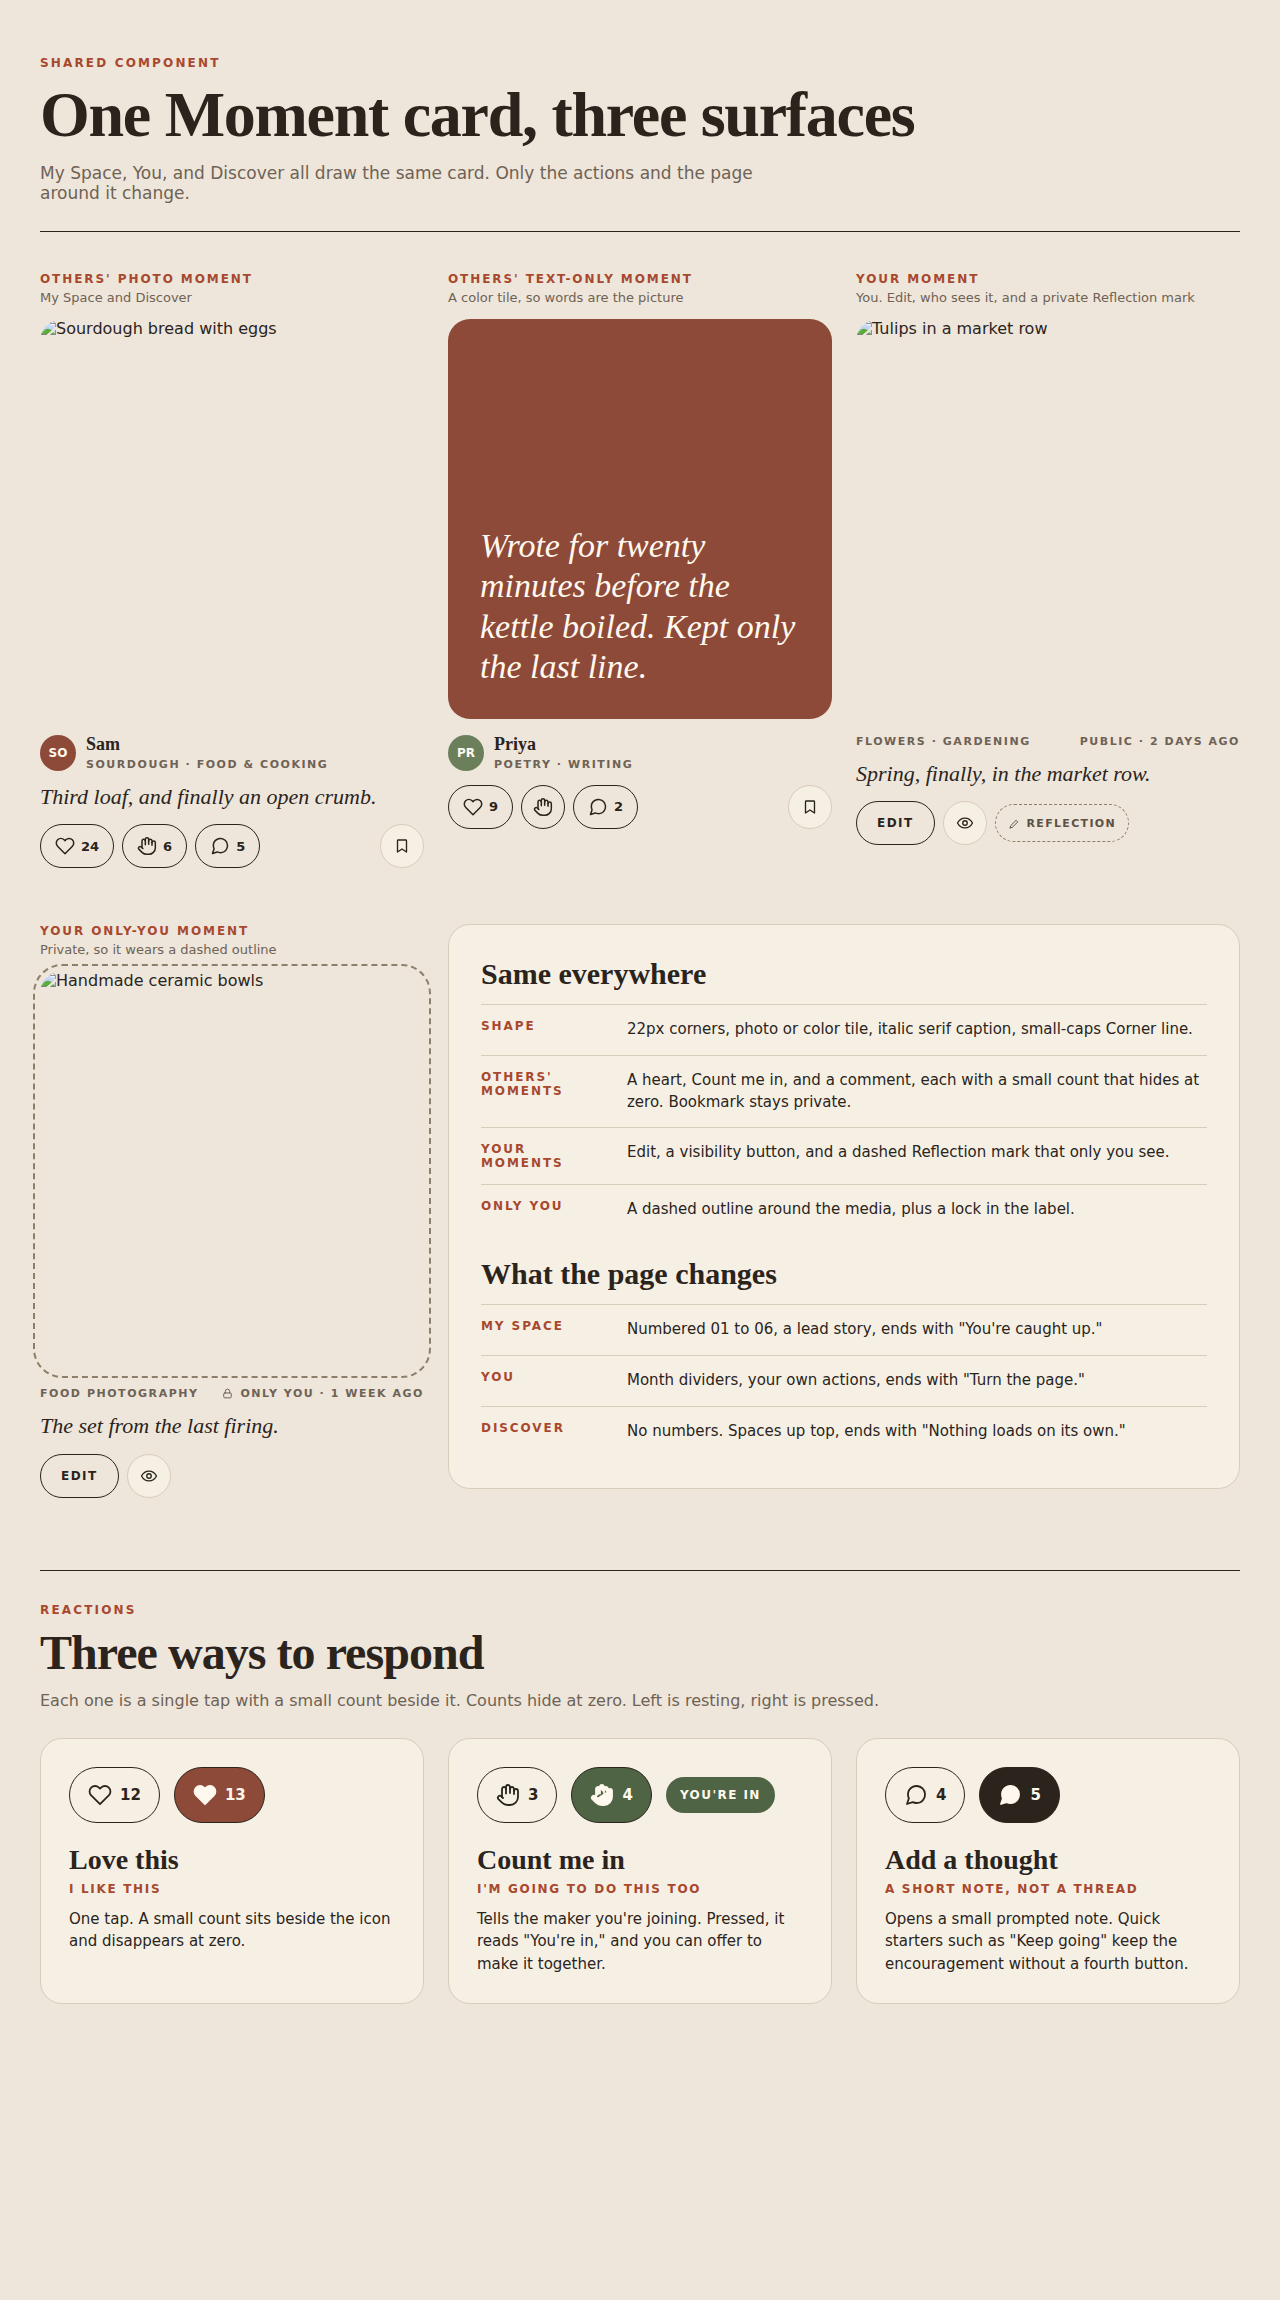
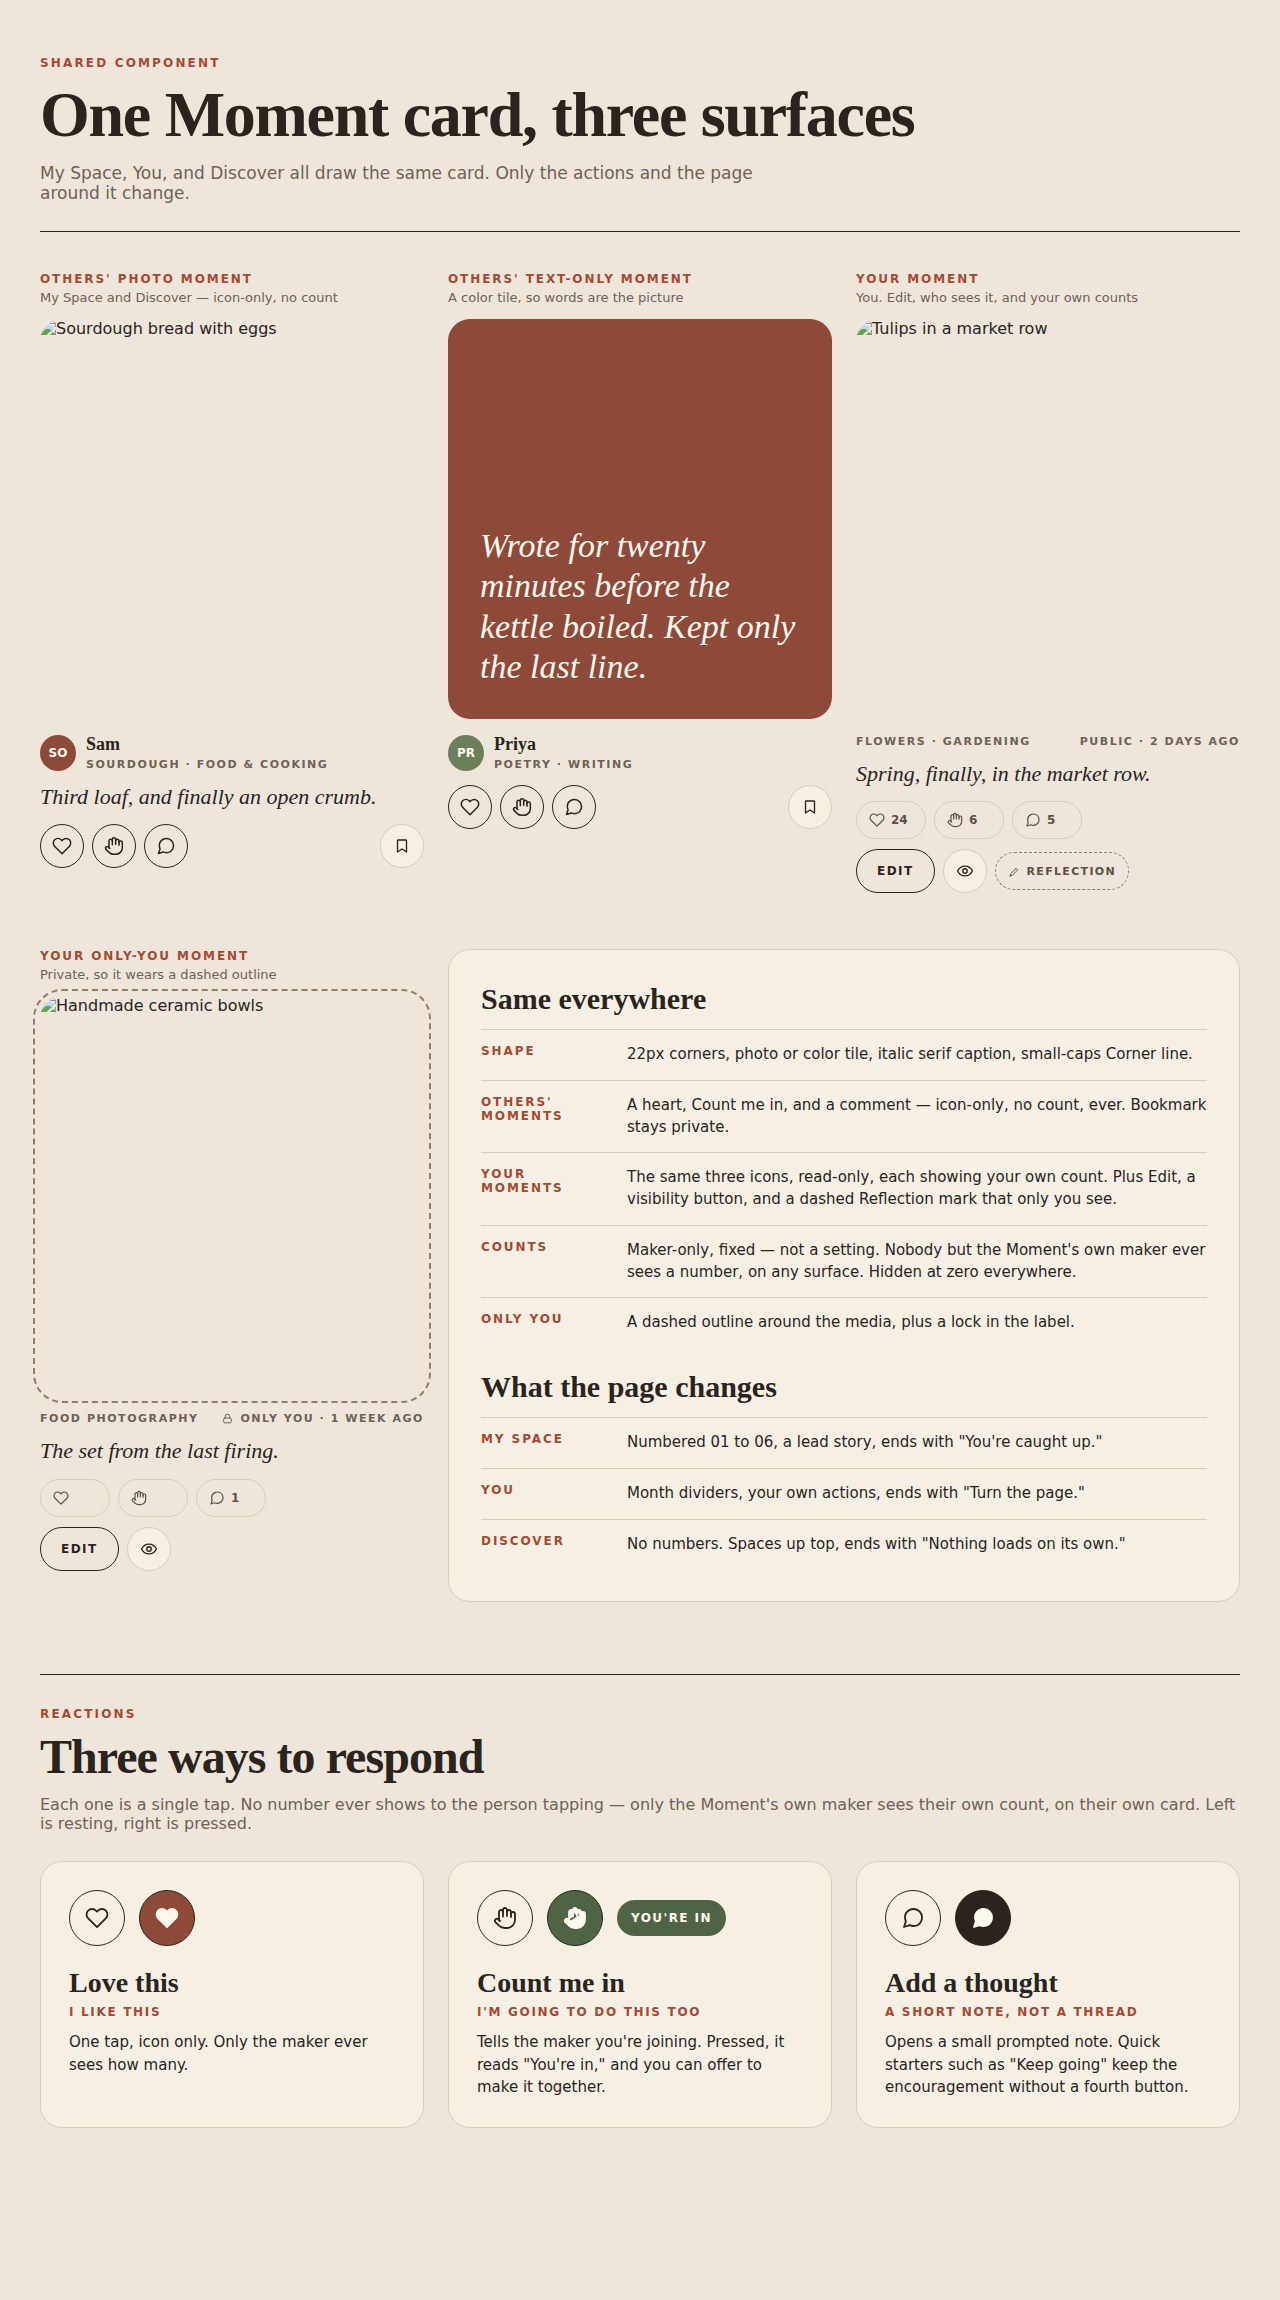
Counts become maker-only, not a public "everyone" mode
Product decision: on someone else's Moment, the three reaction icons
stay icon-only forever, no number anywhere. On your own Moment, those
same icons go read-only and each shows your own count, hidden at zero.
Updates board 6 (the live design canvas) and this repo's own copy of it,
plus spec sections 2.1.4, 2.3, 4.1-4.4, 5, and 6:

- Drops the REACTION_COUNTS "everyone|maker|off" constant entirely -
  maker-only is now the only behavior, not a setting.
- Drops the post_engagement migration/RPC - a maker-only count needs no
  new server object. reactions' own RLS already caps a non-owner's count
  query at their own single row; thoughts' RLS is wider, so the client
  gates that one's display explicitly the same way.
- "Your Moment" card gains the three read-only count pills alongside the
  existing Edit/visibility/Reflection row - previously that row had no
  reaction icons at all.
- Updated tests in section 5 to match (no more post_engagement RLS
  cases; new cases for the plain per-post count queries).

diff --git a/docs/moment-card-and-reactions-spec.md b/docs/moment-card-and-reactions-spec.md
@@ -43,8 +43,8 @@ Build a single `MomentCard` and replace every separate card implementation with 
    - Your Moments: small-caps Corner on the left, `{PUBLIC | Circle name | ONLY YOU} . {time}` on the right.
 3. **Caption**, Fraunces italic, 22px on cards, 26px on wide cards, 40 to 44px on a lead card. No ellipsis truncation of meaningful text (clamp to 3 lines on small cards with a real "Open" affordance).
 4. **Action row.**
-   - Others' Moments: `Love this`, `Count me in`, `Add a thought` (icon buttons with counts, section 4), and a private Bookmark icon pushed to the right.
-   - Your Moments: `Edit`, a visibility button (eye icon, opens the existing visibility control), and a dashed **Reflection** mark **only when a Reflection exists**. The Reflection mark and the Reflection text are visible to the owner only and never rendered for anyone else.
+   - Others' Moments: `Love this`, `Count me in`, `Add a thought` — **icon-only, no counts** — and a private Bookmark icon pushed to the right.
+   - Your Moments: the same three icons, **read-only** (you don't react to your own Moment) and **each showing its own count**, hidden at zero (section 4), plus `Edit`, a visibility button (eye icon, opens the existing visibility control), and a dashed **Reflection** mark **only when a Reflection exists**. The Reflection mark and the Reflection text are visible to the owner only and never rendered for anyone else.
 
 ### 2.2 Props
 
@@ -63,7 +63,7 @@ type MomentCardProps = {
 ### 2.3 States and behavior
 
 - Hover, focus-visible and pressed states on every button. Minimum 44px touch targets.
-- Every icon button has an `aria-label`, a `title`, and `aria-pressed` where it toggles. The accessible name includes the count: "Love this, 12".
+- Every icon button has an `aria-label`, a `title`, and `aria-pressed` where it toggles. On someone else's Moment the accessible name is just "Love this" (no count exists to include). On your own Moment the icons are read-only counts, not toggles — the accessible name includes the number: "Love this, 12".
 - Keyboard: Tab order is media (opens the Moment), name link, action buttons.
 - Animations at most 150ms, and none under `prefers-reduced-motion`.
 - Private/only-you and visibility labels come from the same helper used by `MomentDetail` today. Do not fork it.
@@ -97,9 +97,9 @@ type MomentCardProps = {
 
 ## 4. Counts
 
-### 4.1 Setting
+### 4.1 Who sees a count
 
-One constant, `REACTION_COUNTS`, with three values: `"everyone" | "maker" | "off"`. The default is **`"everyone"`**. It must be enforced **on the server** (4.3), not only in the UI. The client treats a `null` count as "do not show", so changing the value later needs no redesign.
+**Maker-only, fixed — not a setting.** A count is visible only to the Moment's own maker, viewing their own Moment. Everyone else sees icon-only buttons: no number, ever, on someone else's Moment. There is no `REACTION_COUNTS` constant and no "everyone" mode — this replaces that three-way toggle entirely.
 
 ### 4.2 What is counted
 
@@ -109,45 +109,22 @@ One constant, `REACTION_COUNTS`, with three values: `"everyone" | "maker" | "off
 | Raised hand | rows in `reactions` with `type = 'in'` |
 | Comment bubble | rows in `thoughts` |
 
-### 4.3 Data: new migration
+### 4.3 Data: no new view, no new function
 
-Create `supabase/migrations/<timestamp>_post_engagement.sql` (and a matching file in `sql/` if that is the convention).
+Because a count only ever needs to be correct for the Moment's own maker looking at their own Moment, the existing RLS already does the gating — there is nothing new to build server-side:
 
-```sql
-create or replace function public.post_engagement(post_ids bigint[])
-returns table (post_id bigint, love_count int, in_count int, thought_count int)
-language sql stable security definer set search_path = public as $$
-  select p.id,
-         (select count(*) from reactions r where r.post_id = p.id and r.type = 'love')::int,
-         (select count(*) from reactions r where r.post_id = p.id and r.type = 'in')::int,
-         case when p.thoughts_private and p.user_id <> auth.uid() then null
-              else (select count(*) from thoughts t where t.post_id = p.id)::int end
-  from posts p
-  where p.id = any (post_ids)
-    and cardinality(post_ids) <= 100
-    -- MUST equal the posts SELECT policy, including pause and deletion rules.
-    -- Reuse the helper from consolidate_visibility_policies if one exists.
-    and <caller can read this post>;
-$$;
-revoke all on function public.post_engagement(bigint[]) from public, anon;
-grant execute on function public.post_engagement(bigint[]) to authenticated;
-```
-
-Requirements:
-- **The function may only return rows for posts the caller can read.** Mirror the live `posts` SELECT policy exactly, including friends-only, Only you, paused and deletion-pending authors. Do not write a second, looser copy of that logic. Reuse the helper if one exists.
-- It **never returns who reacted.** The existing `reactions` SELECT policy (the reactor and the post's author only) stays as it is.
-- `thought_count` is `null` when the Moment has private thoughts and the caller is not the author.
-- If `REACTION_COUNTS` is `"maker"`, add `and p.user_id = auth.uid()` to the function. If `"off"`, return null counts. This is the single place that decides.
-- Call it **once per rendered page of Moments** with all the ids. No N+1.
-- Confirm indexes on `reactions (post_id, type)` and `thoughts (post_id)`.
+- `reactions`' own SELECT policy is "the reactor and the post's author can see a reaction." A plain `select count(*) from reactions where post_id = :id and type = 'love'`, run as the signed-in viewer, naturally returns the true total when that viewer is the post's author, and at most 1 (their own row, if any) otherwise. The UI only *displays* the number when `post.userId === viewer.id` — belt and braces, since a non-maker's query is already capped at their own single row, never the real total.
+- `thoughts`' own SELECT policy is wider (anyone who can see the Moment reads its thoughts, not just the maker), so it does not self-limit the same way — the client must gate the display explicitly there: query the count only when rendering your own Moment, exactly as for the two reactions.
+- No migration, no `post_engagement` function, no security-definer anything. One small `select count`-style query per icon per own-Moment card, or one batched query per rendered page of your own Moments if that turns out cheap to do (no requirement either way — there's no cross-post visibility logic left to worry about since this never runs for someone else's Moment).
+- Confirm indexes on `reactions (post_id, type)` and `thoughts (post_id)` still make sense for these — no different from before.
 
 ### 4.4 UI
 
-- Each of the three icon buttons is a pill: icon, then the count in a small tabular-figure numeral. **The count is hidden at zero.** Above 999 show `999+`.
-- Pressed states: heart fills with `--accent`, hand fills with the moss token and shows a small "You're in" label, comment fills with the ink token once you have added a thought.
-- Toggle is optimistic: update the count at once, roll back with a quiet inline error if the write fails. Toggling twice returns the original count.
-- **Count me in** keeps its existing behavior. After the first tap, offer a quiet inline "Ask {name} to make it together?" that reuses the existing participation flow (`BePart` / `requestTogether`). Do not build a second one.
-- Numbers are for the viewer's orientation only. They never change order, size or emphasis of a card.
+- Others' Moments: the three icons are plain toggle buttons, no number anywhere on or near them.
+- Your own Moments: the three icons are **read-only** (you don't react to your own Moment) and each shows its own count as a small tabular-figure numeral beside the icon. **Hidden at zero.** Above 999 show `999+`.
+- Toggling (on someone else's Moment) is optimistic client-side reaction state as before — see section 3 — it just never surfaces a number to the person doing the toggling.
+- **Count me in** keeps its existing behavior on others' Moments. After the first tap, offer a quiet inline "Ask {name} to make it together?" that reuses the existing participation flow (`BePart` / `requestTogether`). Do not build a second one.
+- Numbers are for the maker's own orientation only. They never change order, size or emphasis of a card, and never appear to anyone but the maker.
 
 ### 4.5 Add a thought (the comment icon)
 
@@ -177,20 +154,22 @@ Discover stays chronological. "Featured Moments" stays curated.
 ## 5. Tests and "done when"
 
 Second-account RLS tests (the brief already requires these habits):
-- [ ] `post_engagement` returns nothing for a Moment the caller cannot read (friends-only, Only you, paused author).
-- [ ] `thought_count` is null for private thoughts when the caller is not the author.
-- [ ] `anon` cannot call `post_engagement`.
-- [ ] A third party cannot read another person's `reactions` rows.
-- [ ] Toggling Love this or Count me in twice restores the original count.
+- [ ] A plain `reactions` count query for someone else's Moment, run as a signed-in non-owner, returns at most 1 (their own row only) — never the true total.
+- [ ] A plain `thoughts` count query for someone else's Moment, run as a non-owner, still returns the true total when thoughts aren't private (RLS is wider there) — confirming the UI-level maker-only gate is load-bearing for that one, not RLS.
+- [ ] `anon` gets the same capped/zero behavior as a signed-out viewer on both tables.
+- [ ] A third party cannot read another person's `reactions` rows (existing policy, unchanged).
+- [ ] Toggling Love this or Count me in twice restores the original state.
 
 UI checks:
 - [ ] One `MomentCard` renders the same anatomy on My Space, You, Discover, profile, Circle and Pursuit, at 390, 768 and 1280 widths.
+- [ ] No count of any kind ever renders on a Moment you don't own, on any surface.
+- [ ] A count on your own Moment is hidden at zero and matches the real row count in `reactions`/`thoughts`.
 - [ ] Reflection text and the Reflection mark never render for anyone but the owner.
 - [ ] Only-you Moments are dashed and labelled on every surface.
-- [ ] Keyboard only: every action reachable, `aria-pressed` correct, 44px targets.
+- [ ] Keyboard only: every action reachable, `aria-pressed` correct (toggle buttons) or absent (read-only own-Moment counts), 44px targets.
 - [ ] `rg "#[0-9a-fA-F]{3,6}" src/app/components` finds no raw color in the new components.
 - [ ] No old card component is left with zero importers.
 
 ## 6. Report back
 
-List: every difference from the mockups; the `reactions` row count including any `keepgoing` rows; whether a visibility helper already existed for the `post_engagement` filter; anything still reading `posts.likes`; and any surface you could not migrate, with the reason.
+List: every difference from the mockups; the `reactions` row count including any `keepgoing` rows; anything still reading `posts.likes`; and any surface you could not migrate, with the reason.
